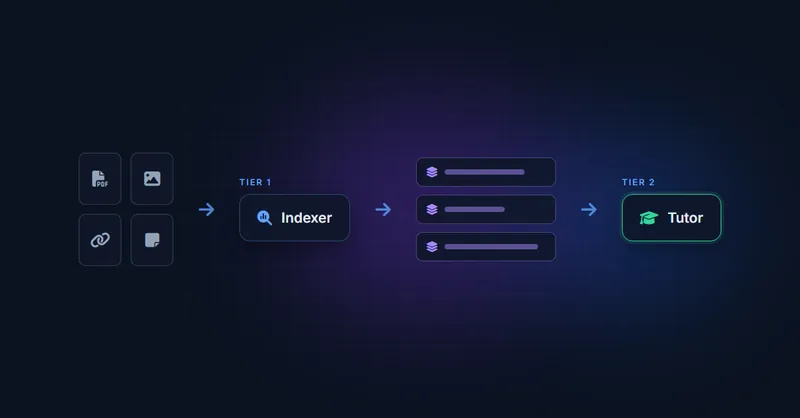
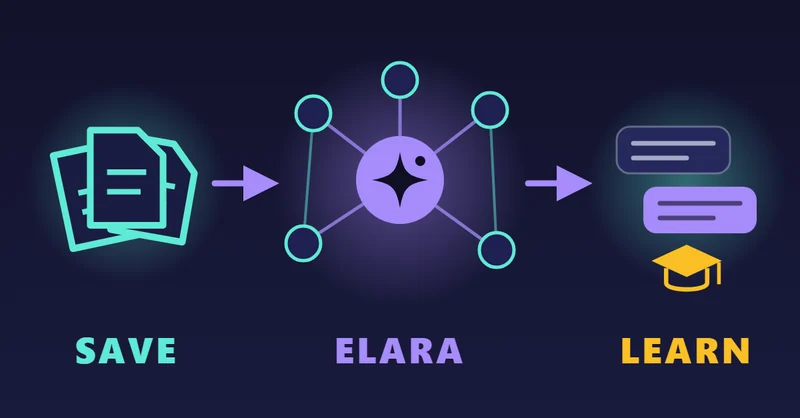
Project Elara: shorter rewrite, self-explanatory violet visuals and cover
"Project Elara, Architecture of Knowledge Ingestion" opens with the
accumulation trap, then Two-Tier Architecture, One Continuous Workspace and
Takeaway. New visuals: Save, Elara, Learn cover; five-step tier flow;
separate pages versus one workspace; three principles. Homepage card
version bumped.

diff --git a/themed-executive.html b/themed-executive.html
@@ -1044,7 +1044,7 @@
           </div>
         </article>
         <article class="proj-card anim">
-          <div class="proj-cover"><img src="blog/project-elara/cover.webp?v=64bd19bd" alt="Project Elara cover" loading="lazy" width="1200" height="627"></div>
+          <div class="proj-cover"><img src="blog/project-elara/cover.webp?v=7eb3cb14" alt="Project Elara cover" loading="lazy" width="1200" height="627"></div>
           <div class="proj-body">
             <p class="proj-kind">Knowledge ingestion engine</p>
             <h3>Project Elara</h3>

diff --git a/blog/project-elara/content.md b/blog/project-elara/content.md
@@ -1,92 +1,39 @@
-# Project Elara, Where Everything You Save Becomes Something You Learn
+# Project Elara, Architecture of Knowledge Ingestion
 Tags: Projects, AI, Learning
 Date: 2026-09-23
-Summary: An AI tutor that reads everything you save to Google Drive and teaches you from it, with no manual tagging or filing.
+Summary: Save knowledge, then learn. Elara handles everything in between, reading, summarizing and connecting what you save.
 
-Elara is an AI-powered personal learning workspace, best described as NotebookLM combined with a personal tutor. You drop PDFs, screenshots, links, notes, resumes and job descriptions into your own Google Drive. Elara reads them, organises them, and teaches you from them. You never file, tag or categorise anything.
+We all fall into the digital accumulation trap. We save interesting articles, download PDFs and screenshot complex diagrams, promising to read them later. Sorting all of it into folders and tags feels like a chore, so we never do it, and the material sits there, buried and forgotten.
 
-## The problem
+I built **Project Elara**, a personal learning workspace, to reverse that. The user has only two jobs, **save knowledge** and **learn**. Everything in between, reading, summarizing and mapping how ideas connect, is handled by the system. You drop messy files into your own Google Drive, and Elara automatically turns them into a searchable, self-indexing knowledge base you can learn from.
 
-We all collect far more than we ever learn from, like PDFs we meant to read, bookmarked articles, LinkedIn posts, screenshots of diagrams, a job description we're preparing for. The usual answer is to *organise* all of it into folders, tags and notebooks. That's work, and most of us never do it, so the material just sits there.
+## Two-Tier Architecture
 
-Elara flips the model. The user has only two jobs.
+The usual playbook calls for a complex, expensive AI stack. Elara starts from strict constraints instead. No database, no vector store, no agent frameworks, and complete data privacy, with everything stored in the user's own Drive.
 
-1. **Save knowledge.**
-2. **Learn.**
+It also avoids a common habit, using AI for work that ordinary code does better. The system splits into two tiers.
 
-Everything in between, including reading, summarising, classifying, linking related ideas, and planning what to study next, is Elara's job.
+- **Tier 1, the indexer.** A fast, low-cost model reads each document once to extract key concepts and write a summary. Unchanged files are never processed again, which keeps indexing cost low.
+- **Tier 2, the tutor.** A stronger reasoning model is used only while you are actively learning, in a live chat, a quiz or a mock interview.
 
-## What Elara does
+Everything else, detecting file changes, search, conversation history and the concept graph that links related ideas, is plain, predictable code. The result is cheap to run, transparent and easy to debug, because finding your data never depends on a black box.
 
-| Capability | What the user experiences |
-|---|---|
-| **Sign in with Google** | Your Google Drive becomes Elara's storage. It creates its own folder structure the first time you sign in. |
-| **Automatic understanding** | Every file becomes a **Knowledge Card** with a summary, key concepts, topics, difficulty, prerequisites, examples and suggested follow-up topics. No manual tagging. |
-| **Chat grounded in your material** | Ask anything. When your saved material is relevant, Elara uses it and says which sources it drew on. Otherwise it answers from general knowledge and makes clear which is which. |
-| **Learning styles** | Free-form chat by default, or switch to a structured style such as a quiz or a mock interview, with adjustable difficulty. |
-| **Career Coach** | Attach a job description and your resume. Elara analyses the skill gap and generates a curriculum plan, all inside the conversation. |
-| **Knowledge that builds on itself** | A useful answer can be saved as a new **Knowledge Note**, which becomes part of what Elara learns from. |
-| **Diagrams in chat** | Explanations can include rendered diagrams, not just text. |
-| **Bring your own AI key** | Use OpenAI, Anthropic Claude, Gemini, OpenRouter or Groq. The key is encrypted before it's stored, and Elara never pays for, or marks up, AI usage. |
+![Your files pass through a fast indexer once, plain code organizes them, and a strong tutor model is used only while you learn](two-tier.svg)
 
-![Career Coach flow](career-coach.svg)
+## One Continuous Workspace
 
-## How it's built
+Separate pages for study sessions, career coaching and curriculum planning made it awkward to connect a newly saved article with an active study plan. So Elara brings everything into one continuous, auto-saving workspace, with quizzes, mock interviews and the career coach available as styles you can switch to at any moment.
 
-![Elara's two-tier architecture](two-tier-architecture.svg)
+![Separate pages versus one workspace](workspace.svg "aside")
 
-The stack is intentionally small. It's **Next.js 16, TypeScript and Tailwind**, with Google sign-in, the Google Drive API for storage, and plain HTTP calls to the AI providers, with no provider-specific SDKs. It's designed to deploy on Vercel.
+## Takeaway
 
-What's more interesting is what we *didn't* use. The original specification explicitly ruled out a traditional database, a vector database, LangChain and agent frameworks. **All persistent state lives in the user's own Google Drive**, with Knowledge Cards as Markdown files, conversations as JSON, and the search index and concept graph as small cache files.
+Project Elara is a practical template for automation and data processing anywhere in a business.
 
-### The core idea is AI-assisted, not AI-dependent
+- **Data ownership.** Users keep control of their files, their privacy and their own AI key.
+- **Tiered intelligence.** Fast, inexpensive models handle routine processing, and powerful models are saved for high-value interaction.
+- **Code first.** Never use an unpredictable AI call when a normal function can do the job faster, cheaper and more reliably.
 
-Midway through the build we reworked the architecture around one principle. Use AI only where you genuinely need human-like understanding, and use ordinary code for everything else. That gives us two tiers.
+The result is a system that gets smarter with everything you save, on an architecture that stays stable and cost-effective over time.
 
-- **Tier 1, the indexer.** A fast, low-cost model, with Groq as the suggested default thanks to its generous free tier, reads each document *once* and produces its Knowledge Card. Change detection means unchanged files are never processed twice. Long documents are split into chunks, each chunk is summarised, and the summaries are merged, so a long PDF is condensed rather than cut off.
-- **Tier 2, the tutor.** A stronger reasoning model is used only while you're actively learning in a conversation.
-- **Everything in between is plain code.** That includes change detection, search, conversation history and the **concept graph**. The concept graph lets Elara find relevant material through shared ideas, not just shared keywords. Ask about "event sourcing" and it can surface a saved article about "CQRS" even if the words never match.
-
-For the CTO conversation, the benefits are cost and predictability. The expensive model is only called when a person is actively learning. Indexing cost is paid once per file. And because retrieval is ordinary code, it's testable and explainable in a way a black-box pipeline isn't.
-
-For the junior engineers, before reaching for an AI call, ask *"could a normal function do this?"* Often it can, and it'll be faster, cheaper and easier to debug.
-
-### Keeping costs flat as conversations grow
-
-Every chat message is saved to Drive in full, but only the most recent 20 messages are sent to the model. A long-running conversation doesn't get steadily more expensive with each reply. Conversation titles come from the first message rather than an extra AI call. Small decisions like these are what keep a "bring your own key" product affordable for its users.
-
-## Why we changed our own rules
-
-The original spec was emphatic that Elara should *"never feel like ChatGPT"*. It asked for separate, structured pages for sessions, career coaching and curriculum, with no endless scrolling conversation.
-
-We built exactly that. Then we used it, and found the structure got in the way. Building on saved knowledge or a generated plan was awkward when every interaction was its own isolated page.
-
-So, deliberately and with the product owner's sign-off, we **unified Sessions, Career Coach and Curriculum into one persistent, auto-saving chat**, and kept the structured modes as optional styles you can switch to at any time. Navigation shrank to four items, which are Home, Chat, Knowledge Sources and Settings.
-
-The lesson is the same one we learned on Observer Prime, from the opposite direction. **Principles serve the user, not the other way round.** Write them down, follow them, and change them openly when real usage proves them wrong.
-
-## Where we stand
-
-Here is the honest status.
-
-- **Built.** All four planned phases. That covers Google sign-in, Drive storage and settings, then background indexing, Knowledge Cards and search, and finally job description and resume analysis, skill-gap analysis and curriculum plans. Both redesigns, the unified chat and the two-tier architecture with the concept graph, are built too. Lint and production build are clean.
-- **Confirmed with a real Google account and a real AI key.** Sign-in, indexing, loading Knowledge Cards, a real chat reply, and listing conversations. Testing also turned up and fixed a search bug where very short words matched too loosely.
-- **Still to confirm end to end.** Concept-graph retrieval in a live conversation, indexing a very long PDF, the separate indexing-provider setting, and a full Career Coach thread. That walkthrough was paused by a local development-environment issue, not an application bug.
-- **Not yet in scope.** Video and audio files. The folders exist, but transcription is deferred.
-
-## What's next
-
-1. Finish the live end-to-end walkthrough and fix whatever it finds
-2. Deploy to Vercel, the planned hosting target
-3. Video and audio transcription, which would also enable a voice tutor
-4. Scale work, meaning larger libraries (thousands of documents), sharded indexes and fuzzier concept matching. We deliberately haven't done this yet, because we'll build for scale once real document volumes justify it.
-
-## The takeaway for the team
-
-Elara is a small product carrying three ideas we should apply anywhere we use AI.
-
-- **Let users own their data.** Their files, their Drive, their key.
-- **Tier your AI.** Use cheap models for one-time understanding and strong models only for high-value interaction.
-- **Code first, AI where it counts.** Every AI call you *don't* make is cheaper, faster and easier to debug.
-
-The result is a tutor that gets smarter with everything you save, and doesn't cost more to run the longer you use it.
+![Three principles behind Elara](principles.svg "aside")
